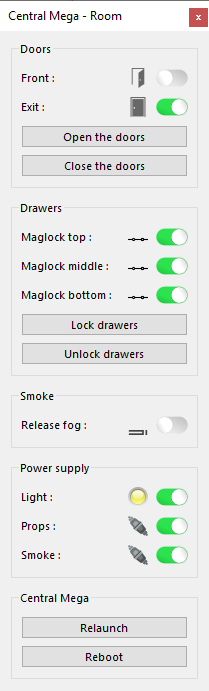
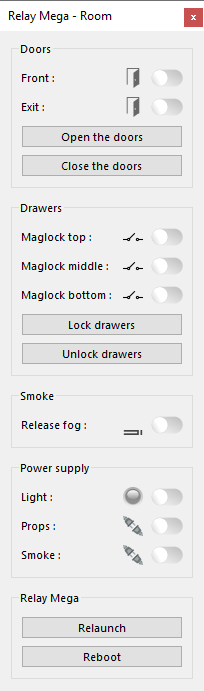
Update docu

diff --git a/MegaRelayProp/README.md b/MegaRelayProp/README.md
@@ -157,7 +157,7 @@ wiring=9
 
 And create a regular control panel:
 
-![Room control panel](https://github.com/xcape-io/RelayProp/blob/master/MegaRelayProp/screenshots/room-prop-control-panel.png)
+![Room control panel](https://github.com/xcape-io/RelayProp/blob/master/MegaRelayProp/screenshots/room-prop-relay-panel.png)
 
 
 # MegaRelayEthernetProp alternative
